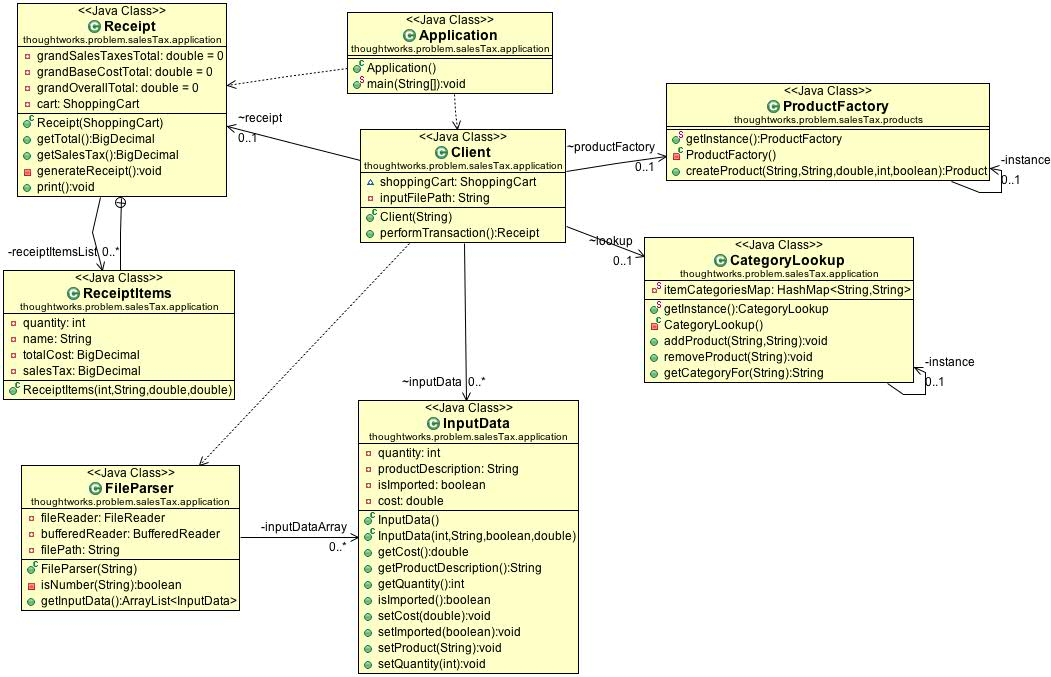
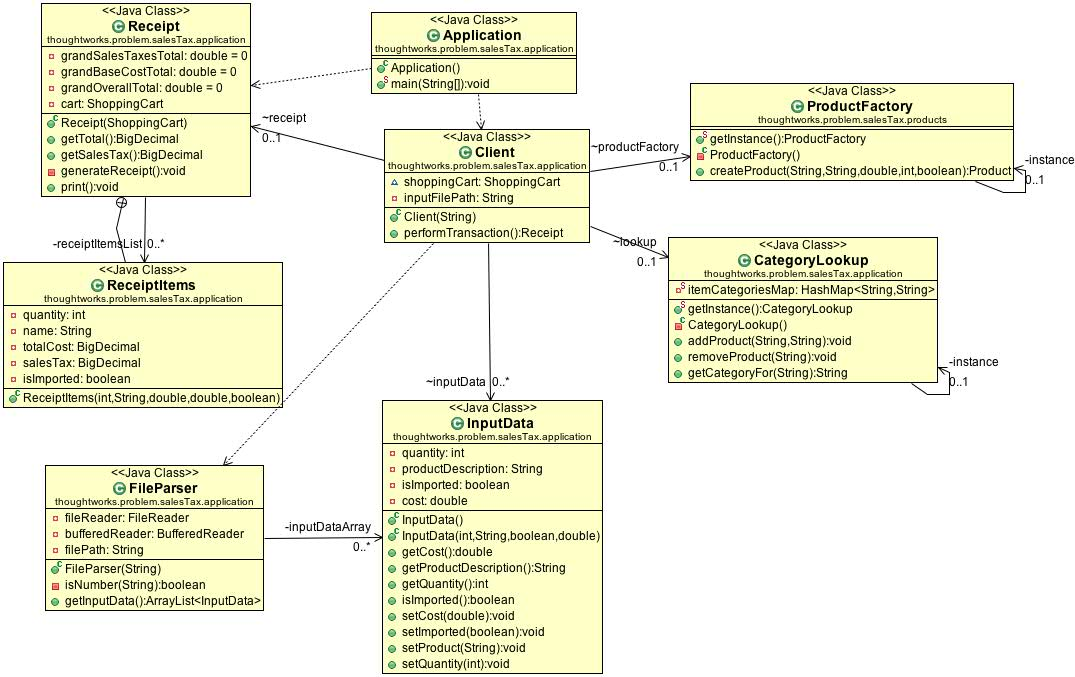
Added README

Changed region(s): [[0.0, 0.0, 1.0, 0.6204], [0.0, 0.4963, 0.5785, 1.0], [0.9134, 0.1241, 0.9439, 0.1551]]

diff --git a/src/thoughtworks/problem/salesTax/application/Receipt.java b/src/thoughtworks/problem/salesTax/application/Receipt.java
@@ -15,14 +15,17 @@ public class Receipt {
 		private String name;
 		private BigDecimal totalCost;
 		private BigDecimal salesTax;
+		private boolean isImported;
 
-		public ReceiptItems(int quantity, String name, double salesTax, double totalCost) {
+		public ReceiptItems(int quantity, String name, double salesTax, double totalCost,
+				boolean isImported) {
 			this.quantity = quantity;
 			this.name = name;
 			this.salesTax = new BigDecimal(Double.toString(salesTax)).setScale(2,
 					BigDecimal.ROUND_HALF_EVEN);
 			this.totalCost = new BigDecimal(Double.toString(totalCost)).setScale(2,
 					BigDecimal.ROUND_HALF_EVEN);
+			this.isImported = isImported;
 		}
 
 	}
@@ -40,12 +43,14 @@ public class Receipt {
 		generateReceipt();
 	}
 
+	/** Get the grand total for this purchase */
 	public BigDecimal getTotal() {
 		BigDecimal total = new BigDecimal(Double.toString(grandOverallTotal)).setScale(
 				Constants.REQUIRED_DECIMAL_PLACES, BigDecimal.ROUND_HALF_EVEN);
 		return total;
 	}
 
+	/** Get the total sales tax for this purchase */
 	public BigDecimal getSalesTax() {
 
 		BigDecimal salesTaxes = new BigDecimal(Double.toString(grandSalesTaxesTotal)).setScale(
@@ -54,6 +59,7 @@ public class Receipt {
 
 	}
 
+	/** Helper method that does all the calculations */
 	private void generateReceipt() {
 		Iterator<Product> cartIterator = cart.iterator();
 
@@ -61,6 +67,7 @@ public class Receipt {
 			Product product = cartIterator.next();
 			int quantity = product.getQuantity();
 			String name = product.getName();
+			boolean isImported = product.isImported();
 			double totalBaseCostForThisProduct = product.getCost();
 			double totalSalesTaxForThisProduct = product.getSalesTax();
 			double totalCostForThisProduct = totalBaseCostForThisProduct
@@ -70,7 +77,7 @@ public class Receipt {
 			grandBaseCostTotal += totalBaseCostForThisProduct;
 
 			receiptItemsList.add(new ReceiptItems(quantity, name, totalSalesTaxForThisProduct,
-					totalCostForThisProduct));
+					totalCostForThisProduct, isImported));
 		}
 
 		grandOverallTotal = grandBaseCostTotal + grandSalesTaxesTotal;
@@ -80,10 +87,12 @@ public class Receipt {
 	 * Method used by any printer to print the receipt
 	 * */
 	public void print() {
-		Iterator<ReceiptItems> iterator = receiptItemsList.iterator();
-		while (iterator.hasNext()) {
-			ReceiptItems item = iterator.next();
-			System.out.println(item.quantity + " " + item.name + " :" + item.totalCost);
+		for (ReceiptItems item : receiptItemsList) {
+			System.out.print(item.quantity);
+			if (item.isImported)
+				System.out.print(" Imported ");
+			System.out.println(item.name + " : " + item.totalCost);
+
 		}
 
 		System.out.println("\nSales Taxes:\t"

diff --git a/src/thoughtworks/problem/salesTax/test/InputTests.java b/src/thoughtworks/problem/salesTax/test/InputTests.java
@@ -18,7 +18,7 @@ public class InputTests {
 	@Test
 	public void testInput1() throws InvalidInputException, NumberFormatException, IOException {
 		Client newClient = new Client("Inputs/input1.txt");
-		Receipt receipt = newClient.performTransaction();
+		Receipt receipt = newClient.performTransaction("CustomerA", "CashierA");
 		BigDecimal total = receipt.getTotal();
 		BigDecimal myTotal = new BigDecimal("29.83");
 		assertTrue(total.equals(myTotal));
@@ -27,7 +27,7 @@ public class InputTests {
 	@Test
 	public void testInput2() throws InvalidInputException, NumberFormatException, IOException {
 		Client newClient = new Client("Inputs/input2.txt");
-		Receipt receipt = newClient.performTransaction();
+		Receipt receipt = newClient.performTransaction("CustomerA", "CashierA");
 		BigDecimal total = receipt.getTotal();
 		BigDecimal myTotal = new BigDecimal("65.15");
 		assertTrue(total.equals(myTotal));
@@ -36,7 +36,7 @@ public class InputTests {
 	@Test
 	public void testInput3() throws InvalidInputException, NumberFormatException, IOException {
 		Client newClient = new Client("Inputs/input3.txt");
-		Receipt receipt = newClient.performTransaction();
+		Receipt receipt = newClient.performTransaction("CustomerA", "CashierA");
 		BigDecimal total = receipt.getTotal();
 		BigDecimal myTotal = new BigDecimal("74.68");
 		assertTrue(total.equals(myTotal));
@@ -46,7 +46,7 @@ public class InputTests {
 	public void testInvalidInputData() throws InvalidInputException {
 		Client newClient = new Client("Inputs/invalid_input.txt");
 		try {
-			newClient.performTransaction();
+			newClient.performTransaction("CustomerA", "CashierA");
 
 		} catch (Exception invalidInputException) {
 			assertEquals(invalidInputException.getMessage(), "Invalid file format");
@@ -59,7 +59,7 @@ public class InputTests {
 		String invalidFilePath = "Inputs/non_existant_file.txt";
 		Client newClient = new Client(invalidFilePath);
 		try {
-			newClient.performTransaction();
+			newClient.performTransaction("CustomerA", "CashierA");
 		} catch (Exception notFoundException) {
 			assertEquals(notFoundException.getMessage(), invalidFilePath + " "
 					+ "(No such file or directory)");

diff --git a/src/thoughtworks/problem/salesTax/application/FileParser.java b/src/thoughtworks/problem/salesTax/application/FileParser.java
@@ -25,9 +25,11 @@ public class FileParser {
 		int quantity = 0;
 		double cost = 0;
 		while ((currentLine = bufferedReader.readLine()) != null) {
+			// remove trailing spaces
 			currentLine = currentLine.replaceAll("\\s+$", "");
 			String[] array = currentLine.split(" ");
 
+			// Assuming the line should start and end with a number
 			if (isNumber(array[0]) && isNumber(array[array.length - 1])) {
 				quantity = new Integer(array[0]).intValue();
 				cost = new Double(array[array.length - 1]).doubleValue();
@@ -37,6 +39,7 @@ public class FileParser {
 				throw new InvalidInputException();
 			}
 
+			// create an array of keywords from the product description
 			String[] product = Arrays.copyOfRange(array, 1, array.length - 2);
 			String productDescription = "";
 			for (int index = 0; index < product.length; index++) {
@@ -51,16 +54,28 @@ public class FileParser {
 
 	}
 
-	private boolean isNumber(String string) {
+	/**
+	 * Helper method to validate data in file
+	 * 
+	 * @param fileInputString
+	 *            string from file that needs validation
+	 * */
+	private boolean isNumber(String fileInputString) {
 		boolean isNumber = true;
 		try {
-			Double.parseDouble(string);
+			isNumber = (Double.parseDouble(fileInputString)) > 0;
 		} catch (NumberFormatException e) {
 			isNumber = false;
 		}
 		return isNumber;
 	}
 
+	/**
+	 * Method to populate data from file into an array of InputData
+	 * 
+	 * @return inputDataArray Array of type InputData that contains data
+	 *         processed from file
+	 * */
 	public ArrayList<InputData> getInputData() {
 		return inputDataArray;
 

diff --git a/src/thoughtworks/problem/salesTax/application/CategoryLookup.java b/src/thoughtworks/problem/salesTax/application/CategoryLookup.java
@@ -28,15 +28,38 @@ public class CategoryLookup {
 
 	}
 
+	/**
+	 * Add new product and it's category to current database
+	 * 
+	 * @param item
+	 *            Item: keyword
+	 * @param category
+	 *            : Category keyword
+	 * */
 	public void addProduct(String item, String category) {
 		itemCategoriesMap.put(item, category);
 	}
 
+	/**
+	 * Remove product from the table, so that next time it is look up, it should
+	 * default to "Other" category
+	 * 
+	 * @param productName
+	 *            : Product to be removed from lookup table
+	 * */
 	public void removeProduct(String productName) {
 		if (itemCategoriesMap.containsKey(productName))
 			itemCategoriesMap.remove(productName);
 	}
 
+	/**
+	 * Get the category of product with given keyword(s)
+	 * 
+	 * @param productDescription
+	 *            keyword(s) with description of product
+	 * @return category of the product if found in the lookup table, otherwise
+	 *         the default value
+	 * */
 	public String getCategoryFor(String productDescription) {
 		String[] productKeyWords = productDescription.split(" ");
 		String category = Constants.OTHER;

diff --git a/src/thoughtworks/problem/salesTax/application/Client.java b/src/thoughtworks/problem/salesTax/application/Client.java
@@ -27,14 +27,14 @@ public class Client {
 		this.inputFilePath = inputFilePath;
 	}
 
-	public Receipt performTransaction() throws InvalidInputException, NumberFormatException,
-			IOException {
+	public Receipt performTransaction(String customerName, String ClientName)
+			throws InvalidInputException, NumberFormatException, IOException {
 		// read and prepare input data
 		lookup = CategoryLookup.getInstance();
 
 		inputData = new FileParser(inputFilePath).getInputData();
 		productFactory = ProductFactory.getInstance();
-		shoppingCart = new CustomerCart("Customer A", "Cashier B", new Date().toString());
+		shoppingCart = new CustomerCart(customerName, customerName, new Date().toString());
 
 		for (InputData data : inputData) {
 			int quantity = data.getQuantity();
@@ -48,7 +48,11 @@ public class Client {
 			shoppingCart.addProduct(product);
 		}
 
-		receipt = new Receipt(shoppingCart);
+		try {
+			receipt = new Receipt(shoppingCart);
+		} catch (Exception e) {
+			e.printStackTrace();
+		}
 		return receipt;
 	}
 

diff --git a/src/thoughtworks/problem/salesTax/application/Application.java b/src/thoughtworks/problem/salesTax/application/Application.java
@@ -10,6 +10,8 @@ public class Application {
 	public static void main(String[] args) {
 		Client client = null;
 		Receipt receipt = null;
+		String customerName = "CustomerA";
+		String cashierName = "CashierA";
 		client = new Client("Inputs/input1.txt");
 		// client = new Client("Inputs/input2.txt");
 		// client = new Client("Inputs/input3.txt");
@@ -18,7 +20,7 @@ public class Application {
 
 		if (client != null) {
 			try {
-				receipt = client.performTransaction();
+				receipt = client.performTransaction(customerName, cashierName);
 				new Printer(receipt);
 			} catch (InvalidInputException invalidInputException) {
 				System.out.println("Please check your input file for correct format");

diff --git a/src/thoughtworks/problem/salesTax/test/ShoppingCartTest.java b/src/thoughtworks/problem/salesTax/test/ShoppingCartTest.java
@@ -22,7 +22,7 @@ public class ShoppingCartTest {
 	@Before
 	public void setUp() throws Exception {
 		client = new Client(inputFilePath);
-		receipt = client.performTransaction();
+		receipt = client.performTransaction("CustomerA", "CashierA");
 	}
 
 	@Test
